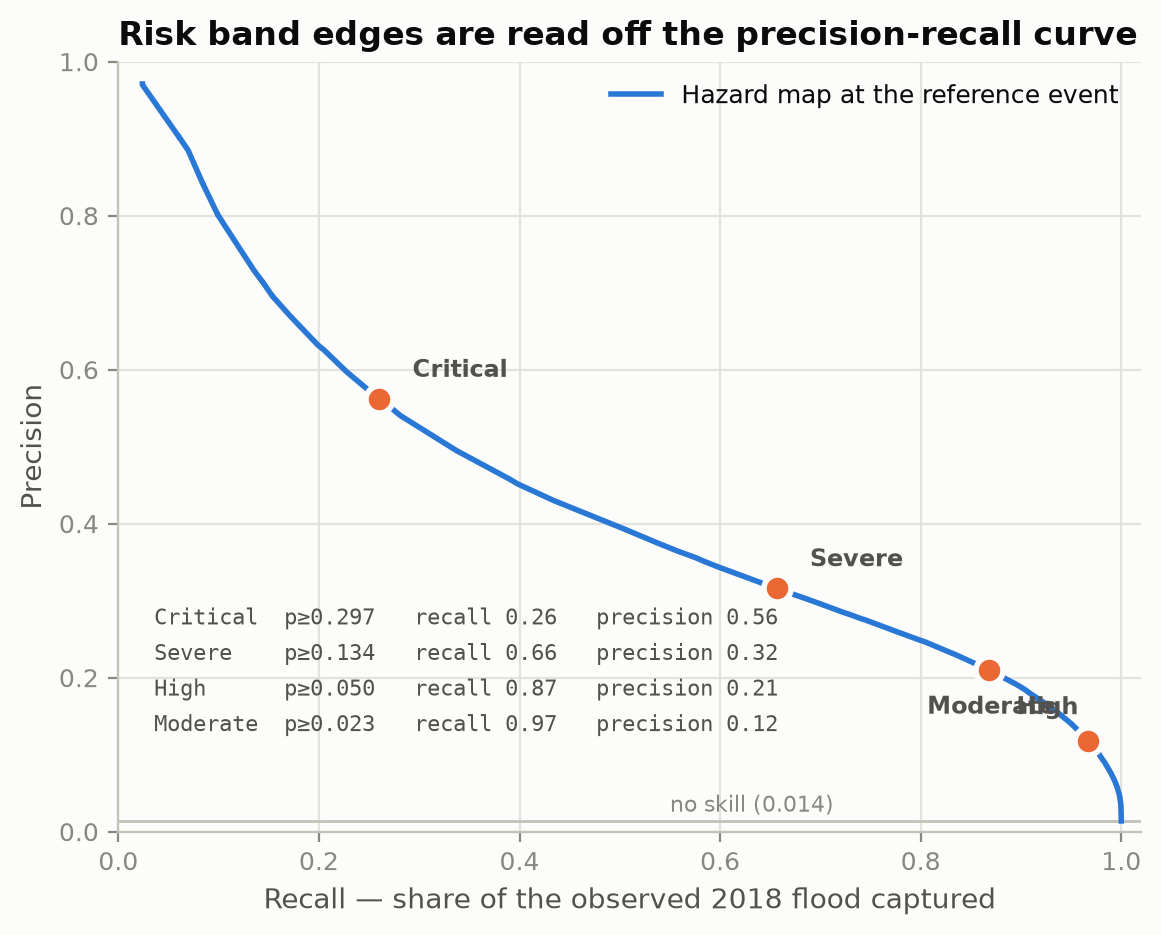
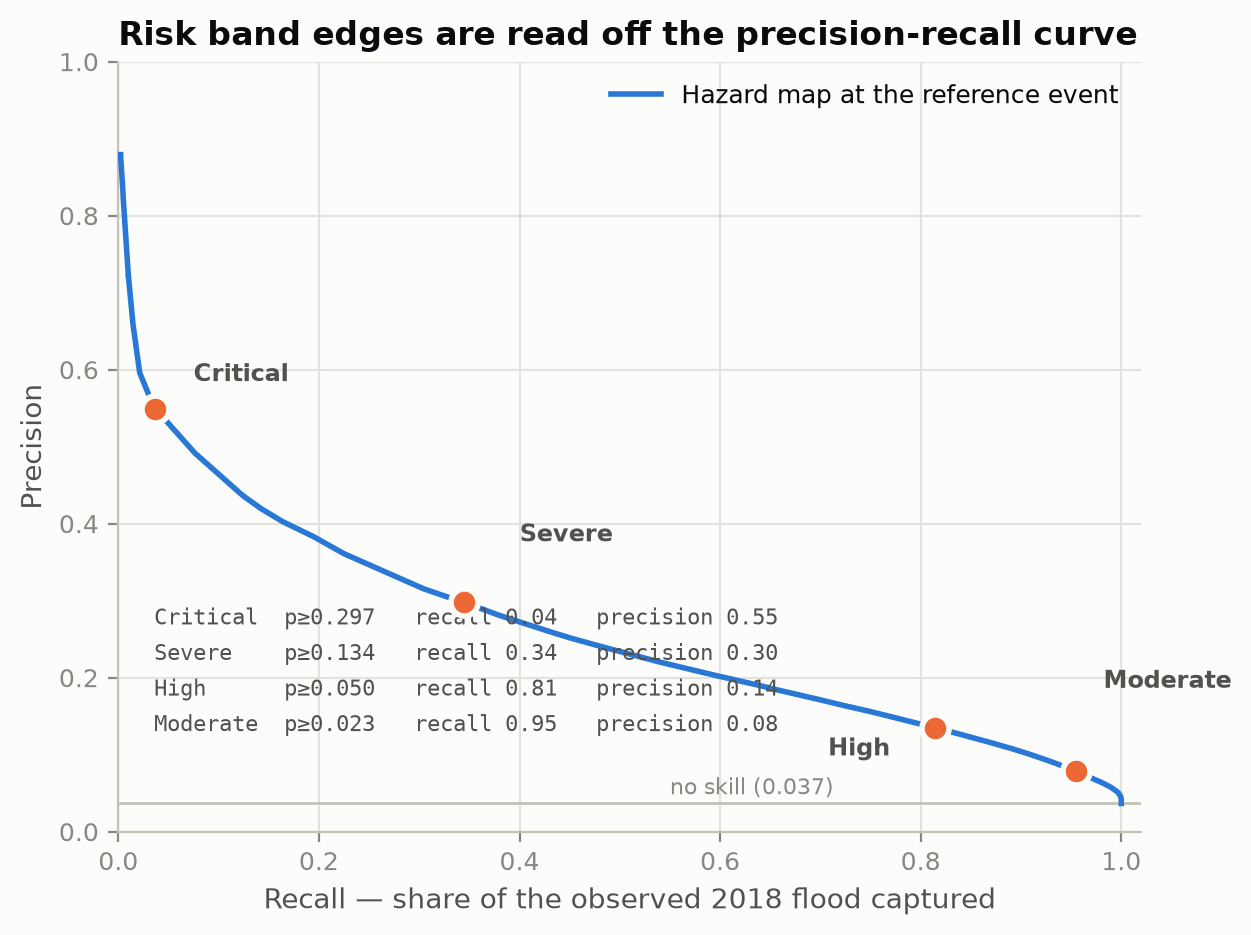
Fix fig4: it was drawn from the Sentinel-1/332mm generation, not current
fig_threshold_derivation() hardcoded outputs/flood_hazard_332mm.tif and
data_aligned/ground_truth_aligned.tif -- the pre-NDEM, pre-443mm-reference
label and hazard raster. Both files still exist (kept for reproducibility),
so the function never errored or warned; it silently kept plotting a
precision-recall curve from two retrains ago while the RISK.* threshold dots
annotated on the same curve came from the current, live config. The curve and
the dots it was supposedly reading off of belonged to different models.

Now reads FLOOD_LABEL_RASTER and RAINFALL.reference_event_mm from config, so
this tracks whatever the model is currently calibrated against instead of a
hardcoded filename. Also fixed the Moderate/High label collision that the
correct data exposed -- the two points are genuinely close together at this
scale (recall 0.81 vs 0.95), so the offsets needed more separation, not just
a data fix.

Confirmed via the sweep that led here: no other figure or app-facing text
hardcoded the old reference depth or label name.

diff --git a/evaluation/generate_figures.py b/evaluation/generate_figures.py
@@ -12,8 +12,17 @@ Every panel here is computed from a file on disk:
     models/susceptibility_metrics.json  spatial CV, reliability, importance
     models/graph_experiment.json        the graph ablation
     models/reference_rainfall.json      ERA5 storm accumulations
-    outputs/flood_hazard_332mm.tif      for the precision-recall curve
-    data_aligned/ground_truth_aligned.tif
+    outputs/flood_hazard_{RAINFALL.reference_event_mm}mm.tif
+                                         for the precision-recall curve
+    data_aligned/{FLOOD_LABEL_RASTER}_aligned.tif
+
+Both of the last two are read from src/config.py rather than hardcoded, so this
+tracks whichever reference event and label the model is currently calibrated
+against. A previous version hardcoded `flood_hazard_332mm.tif` and
+`ground_truth_aligned.tif` -- the Sentinel-1-era, 332mm-reference generation --
+which kept producing fig4 from stale inputs for two retrains after the
+reference event moved to 443.2mm (IMD) and the label moved to NDEM, silently
+mismatched against the RiskThresholds dots drawn on the same curve.
 
 Anything missing is skipped with a warning rather than faked.
 
@@ -251,13 +260,16 @@ def fig_threshold_derivation() -> None:
         import rasterio
         from sklearn.metrics import precision_recall_curve
 
-        from config import RISK
+        from config import FLOOD_LABEL_RASTER, RAINFALL, RISK
     except Exception as exc:  # pragma: no cover
         LOGGER.warning("cannot build fig4 (%s)", exc)
         return
 
-    hazard_path = ROOT / "outputs" / "flood_hazard_332mm.tif"
-    gt_path = ROOT / "data_aligned" / "ground_truth_aligned.tif"
+    # Reference-event depth as the hazard rasters name it, e.g. 443mm -- not
+    # 443.0mm. hazard.py truncates the same way when writing these files.
+    ref_mm = int(round(RAINFALL.reference_event_mm))
+    hazard_path = ROOT / "outputs" / f"flood_hazard_{ref_mm}mm.tif"
+    gt_path = ROOT / "data_aligned" / f"{FLOOD_LABEL_RASTER}_aligned.tif"
     lulc_path = ROOT / "data_aligned" / "lulc_aligned.tif"
     if not all(p.exists() for p in (hazard_path, gt_path, lulc_path)):
         LOGGER.warning("rasters missing -- skipping fig4")
@@ -295,10 +307,10 @@ def fig_threshold_derivation() -> None:
     # collided with each other and with the no-skill line however they were
     # offset -- the points are simply too close at the high-recall end.
     bands = [
-        ("Critical", RISK.critical, (12, 8), "left"),
-        ("Severe", RISK.high, (12, 8), "left"),
-        ("High", RISK.moderate, (10, -16), "left"),
-        ("Moderate", RISK.safe, (-12, 10), "right"),
+        ("Critical", RISK.critical, (14, 10), "left"),
+        ("Severe", RISK.high, (20, 22), "left"),
+        ("High", RISK.moderate, (-16, -10), "right"),
+        ("Moderate", RISK.safe, (10, 30), "left"),
     ]
     rows = []
     for label, t, offset, ha in bands:
